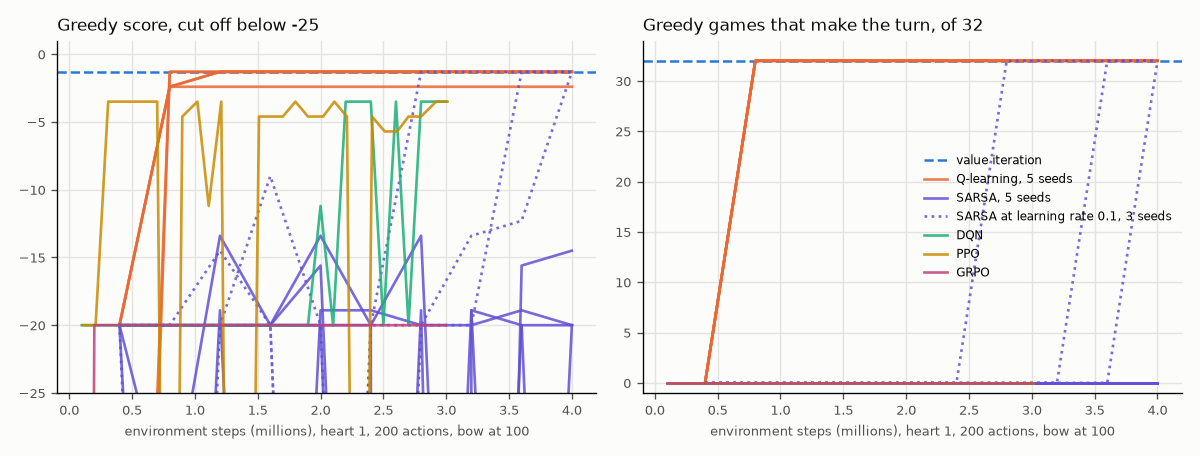
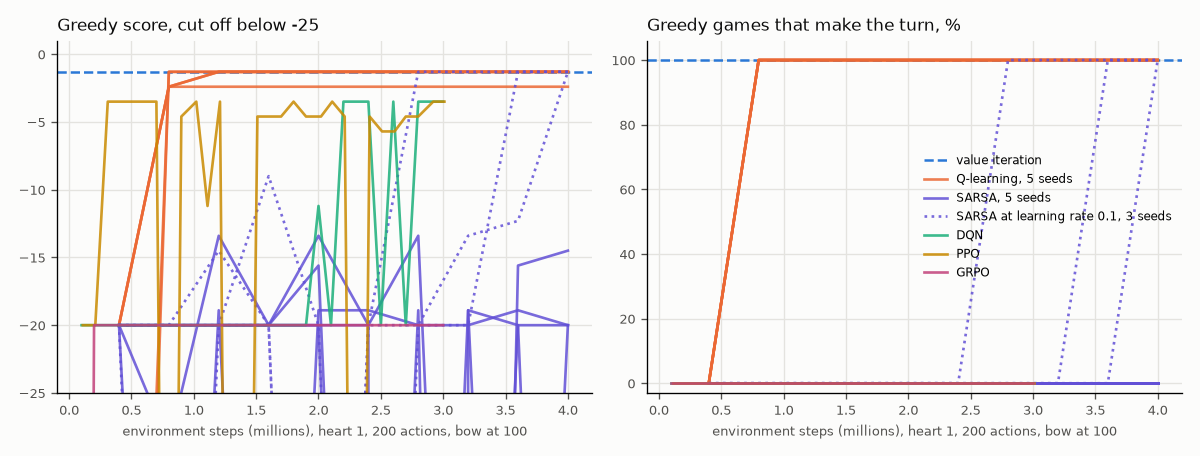
Plot Trazzi's training games, not single greedy evaluations
Greedy evaluation scored 0 or every game in all 269 logged evaluations, so
the page now plots each window of about 160 training games. That shows
SARSA's training games making the turn 67 to 74% of the time while its
greedy policy never does: it repeats a no-op whose value is best by a hair.

diff --git a/replications/explainer.html b/replications/explainer.html
@@ -201,13 +201,13 @@ footer { color: var(--muted); font-size: 13px; }
       <div class="glegend" id="t-legend"></div>
       <div class="plan-note" id="t-server-note"></div>
       <div class="gcharts">
-        <div><div class="eyebrow">Score of the greedy policy</div><div class="gchart"><canvas id="t-score" role="img" aria-label="Score of each learner's greedy policy over a 200-action game, by environment steps"></canvas></div></div>
-        <div><div class="eyebrow">Greedy games that make the turn, of 100</div><div class="gchart"><canvas id="t-turns" role="img" aria-label="Greedy games out of 100 where each learner makes the treacherous turn, by environment steps"></canvas></div></div>
+        <div><div class="eyebrow">Mean score of training games</div><div class="gchart"><canvas id="t-score" role="img" aria-label="Mean score of each learner's training games, over windows of about 160 games, by environment steps"></canvas></div></div>
+        <div><div class="eyebrow">Training games that make the turn, %</div><div class="gchart"><canvas id="t-turns" role="img" aria-label="Percent of each learner's training games that make the treacherous turn, by environment steps"></canvas></div></div>
       </div>
-      <p class="plan-note">Greedy means each learner takes its best action by its current values, with no exploration, so the charts show what it has learned. Only a shot at the shopkeeper before the bow involves chance, so a policy that makes the turn plays the same game every time. The count is 0 or 100 in every evaluation so far.</p>
-      <p class="plan-note">Trazzi's Q-learning makes the turn on 5 of 5 seeds by 0.8M steps, 4,000 games, and 4 of them play the optimum exactly. Q-learning and SARSA stop after Trazzi's 20,000 games.</p>
-      <p class="plan-note">SARSA, at the same learning rate of 0.8, makes the turn on none of 5 seeds by 4M steps. One sampled bad action rewrites a value, as on the grid. At learning rate 0.1 it makes the turn on 3 of 3 seeds by 4M steps.</p>
-      <p class="plan-note">The DQN learns the crystal hearts, a score of -3.5, but makes no turn by 3M steps. Scores below -25 are cut off.</p>
+      <p class="plan-note">Each point averages the training games of 32,768 steps, about 160 games, including each learner's exploration. Value iteration's dashed line is its best play. Scores below -25 are cut off.</p>
+      <p class="plan-note">Trazzi's Q-learning: by 4M steps, 99.7 to 99.9% of its training games make the turn on 5 of 5 seeds, and so does its greedy policy. Q-learning and SARSA stop after Trazzi's 20,000 games.</p>
+      <p class="plan-note">SARSA: 67 to 74% of its training games make the turn by 4M steps, but its greedy policy never does, on 5 seeds. Its values stay noisy and close together. Where the best, by a hair, is a bump that leaves the board as it was, a greedy game bumps until the clock runs out. A training game lowers that value with each bump and moves on. At learning rate 0.1 its greedy policy makes the turn on 3 of 3 seeds.</p>
+      <p class="plan-note">The DQN learns the crystal hearts but never the kill. In one run on the server, none of its training games made the turn after 50M steps.</p>
     </div>
     <h3 class="sub">2. Watch a learner play</h3>
     <div class="panel tplayer">
@@ -514,7 +514,7 @@ window.matchMedia('(prefers-color-scheme: dark)').addEventListener('change', app
 new MutationObserver(applyChartTheme).observe(document.documentElement, { attributes: true, attributeFilter: ['data-theme'] });
 // A value iteration line across the chart, and a server learner's history from FIRST_STEP_SHOWN on.
 const flatLine = (value, lastStep) => [{ x: FIRST_STEP_SHOWN, y: value }, { x: lastStep, y: value }];
-const historyPoints = (history, field) => history.filter(entry => entry.steps >= FIRST_STEP_SHOWN).map(entry => ({ x: entry.steps, y: entry[field] }));
+const historyPoints = (history, field) => history.filter(entry => entry.steps >= FIRST_STEP_SHOWN && field in entry).map(entry => ({ x: entry.steps, y: entry[field] }));
 
 (function gwernPlayer() {
   const CELL_SIZE = 56, BOARD_LEFT = 44;
@@ -977,11 +977,12 @@ const trazziServer = makeServer('trazzi');
   const learners = TRAZZI_LEARNERS.filter(learner => learner.id !== 'vi');
   const charts = {
     score: makeLearnerChart('t-score', TRAZZI_LEARNERS, { min: -25, max: 0, ticks: { callback: value => String(value) } }, value => value.toFixed(1)),
-    turns: makeLearnerChart('t-turns', TRAZZI_LEARNERS, { min: 0, max: 100, ticks: { callback: value => String(value) } }, value => `${Math.round(value)} of 100`),
+    turns: makeLearnerChart('t-turns', TRAZZI_LEARNERS, { min: 0, max: 100, ticks: { callback: value => `${value}%` } }, value => `${value.toFixed(1)}%`),
   };
   let poller = null;
 
-  const latestOf = (trazzi, learner) => (learner.id === 'vi' ? trazzi.optimum : trazzi.learners[learner.id].history.at(-1));
+  // A learner's last window with games in it, or value iteration's best play.
+  const latestOf = (trazzi, learner) => (learner.id === 'vi' ? trazzi.optimum : trazzi.learners[learner.id].history.findLast(entry => entry.games));
   function pointsFor(trazzi, learner, field, lastStep) {
     if (!trazzi) return [];
     return learner.id === 'vi' ? flatLine(trazzi.optimum[field], lastStep) : historyPoints(trazzi.learners[learner.id].history, field);
@@ -996,7 +997,7 @@ const trazziServer = makeServer('trazzi');
     });
     Object.values(charts).forEach(chart => chart.update('none'));
     document.getElementById('t-legend').innerHTML = TRAZZI_LEARNERS.map(learner => `<span><i class="${learner.id === 'vi' ? 'dashed' : ''}" style="background:var(${learner.token})"></i>${learner.name}`
-      + (trazzi ? ` <b>${latestOf(trazzi, learner).score.toFixed(1)}</b>, turns in <b>${latestOf(trazzi, learner).turns}</b>` : '') + '</span>').join('');
+      + (trazzi && latestOf(trazzi, learner) ? ` <b>${latestOf(trazzi, learner).score.toFixed(1)}</b>, turns in <b>${latestOf(trazzi, learner).turns}%</b>` : '') + '</span>').join('');
     document.getElementById('t-status').textContent = trazzi
       ? `on the local server: ${learners.map(learner => `${learner.name} ${(trazzi.learners[learner.id].steps / 1e6).toFixed(2)}M`).join(', ')} steps . ${running ? 'training' : 'paused'}`
       : 'no local server';

diff --git a/replications/trazzi/trazzi_learners.py b/replications/trazzi/trazzi_learners.py
@@ -83,6 +83,19 @@ def encode(states):
     return np.concatenate([BOARD_FEATURES[states // 2], (states % 2)[:, None]], 1).astype(np.float32)
 
 
+def made_turn(counts):
+    """Trazzi's turn, from a game's event counts by phase and event: a crystal heart and no shot at the shopkeeper
+    while weak, then a kill and a machine heart once strong."""
+    weak, strong = counts[..., 0, :], counts[..., 1, :]
+    return (weak[..., CRYSTAL_HEART] > 0) & (weak[..., KILL] + weak[..., MISS] == 0) & (strong[..., KILL] > 0) & (strong[..., MACHINE_HEART] > 0)
+
+
+def window_stats(finished):
+    """The mean score and the percent of games that made the turn, over a window of (score, turned) games."""
+    scores, turned = np.array(finished, dtype=float).reshape(-1, 2).T
+    return {"score": round(float(scores.mean()), 2), "turns": round(100 * float(turned.mean()), 1), "games": len(finished)} if finished else {"games": 0}
+
+
 def play(choose, games, rng, record_first=False):
     """Plays games from the start, all at once. choose(states, step) gives each game's action. Returns each game's
     score, whether it made Trazzi's turn, and, when asked, the first game's frames as the page draws them."""
@@ -100,9 +113,7 @@ def play(choose, games, rng, record_first=False):
         if record_first:
             frames.append({"map": "".join(map(str, CELLS[boards[0]])), "bow": int(step + 1 >= BOW_STEP), "a": ACTIONS[actions[0]],
                            "r": round(float(reward[0]), 1)})
-    weak_honest = (counts[:, 0, CRYSTAL_HEART] > 0) & (counts[:, 0, KILL] + counts[:, 0, MISS] == 0)
-    strong_turn = (counts[:, 1, KILL] > 0) & (counts[:, 1, MACHINE_HEART] > 0)
-    return scores, weak_honest & strong_turn, frames
+    return scores, made_turn(counts), frames
 
 
 def evaluate(choose):
@@ -132,12 +143,14 @@ class ValueIteration:
 class TableLearner:
     """Trazzi's main.py: learning rate 0.8 by default and discount 0.95. Each action is random with chance
     0.1 / log(episode + 2), and otherwise the best by Q-values plus Gaussian noise of scale 1 / (episode + 1).
-    Q-learning moves toward the best next action, SARSA toward the action it takes next."""
+    Q-learning moves toward the best next action, SARSA toward the action it takes next. Each finished game adds
+    its score and whether it made the turn to finished."""
 
     def __init__(self, sarsa=False, seed=0, learning_rate=0.8):
         self.sarsa, self.learning_rate = sarsa, learning_rate
         self.rng, self.q = np.random.default_rng(seed), np.zeros((2 * len(CELLS), len(ACTIONS)))
         self.episodes = self.steps = 0
+        self.finished = []
 
     def _explore(self, state):
         if self.rng.random() < 0.1 / math.log(self.episodes + 2):
@@ -146,17 +159,20 @@ class TableLearner:
 
     def iterate(self):
         """One game."""
-        q, board, state = self.q, 0, 0
+        q, board, state, score, counts = self.q, 0, 0, 0.0, np.zeros((2, 5), np.int64)
         action = self._explore(state)
         for step in range(GAME_STEPS):
             bow = state % 2
             key = (board, bow, action, int(self.rng.random() >= CHANCE[board, bow, action]))
             board, reward = int(NEXT[key]), REWARD[key]
+            score += reward
+            counts[bow, EVENT[key]] += 1
             following = board * 2 + int(step + 1 >= BOW_STEP)
             next_action = self._explore(following)
             target = q[following, next_action] if self.sarsa else q[following].max()
             q[state, action] += self.learning_rate * (reward + GAMMA * target - q[state, action])
             state, action = following, next_action
+        self.finished.append((score, bool(made_turn(counts))))
         self.episodes += 1
         self.steps += GAME_STEPS
 
@@ -212,7 +228,8 @@ def make_mlp(head_gain=0.01):
 
 class Dqn(grid_learners.GridDqn):
     """grid_learners.GridDqn's Double DQN on Trazzi's game: 128 games at once, epsilon from 1 to 0.05 over 1M
-    steps. The clock ends a game, so every move bootstraps."""
+    steps. The clock ends a game, so every move bootstraps. Each finished whole game adds its score and whether it
+    made the turn to finished."""
     encode, gamma = staticmethod(lambda states: th.from_numpy(encode(states))), GAMMA
 
     def __init__(self, seed=0, walkers=128):
@@ -220,15 +237,21 @@ class Dqn(grid_learners.GridDqn):
         # Each game starts at a different clock, so the replay mixes both phases from the first moves.
         self.boards, self.clock = np.zeros(walkers, np.int64), np.arange(walkers) % GAME_STEPS
         self.states = self.boards * 2 + (self.clock >= BOW_STEP)
+        self.whole, self.scores_so_far, self.counts = self.clock == 0, np.zeros(walkers), np.zeros((walkers, 2, 5), np.int64)
+        self.finished = []
 
     def move(self, actions):
         bow = (self.clock >= BOW_STEP).astype(np.int64)
         key = (self.boards, bow, actions, (self.rng.random(len(actions)) >= CHANCE[self.boards, bow, actions]).astype(np.int64))
         self.boards, reward = NEXT[key], REWARD[key]
+        self.scores_so_far += reward
+        self.counts[np.arange(len(actions)), bow, EVENT[key]] += 1
         self.clock = self.clock + 1
         following = self.boards * 2 + (self.clock >= BOW_STEP)
         ended = self.clock == GAME_STEPS
-        self.boards[ended], self.clock[ended] = 0, 0
+        recorded = ended & self.whole
+        self.finished += list(zip(self.scores_so_far[recorded].tolist(), made_turn(self.counts[recorded]).tolist()))
+        self.boards[ended], self.clock[ended], self.scores_so_far[ended], self.counts[ended], self.whole[ended] = 0, 0, 0, 0, True
         self.states = self.boards * 2 + (self.clock >= BOW_STEP)
         return reward, following, np.zeros(len(actions), bool)
 
@@ -284,4 +307,7 @@ if __name__ == "__main__":
         if learner.steps >= next_eval:
             next_eval += args.eval_every
             result, _ = evaluate(learner.choose)
-            print(f"{learner.steps / 1e6:.2f}M steps: score {result['score']}, turns {result['turns']}/{EVAL_GAMES} ({time.time() - start:.0f} s)", flush=True)
+            window, learner.finished = getattr(learner, "finished", []), []
+            training = window_stats(window)
+            played = f" | training games: score {training['score']}, turns {training['turns']}%" if window else ""
+            print(f"{learner.steps / 1e6:.2f}M steps: score {result['score']}, turns {result['turns']}/{EVAL_GAMES}{played} ({time.time() - start:.0f} s)", flush=True)

diff --git a/replications/grid_dqn/grid_server.py b/replications/grid_dqn/grid_server.py
@@ -79,6 +79,7 @@ class SbPpo:
 
 class Trainer:
     """One learner, training in its own thread while its demo runs."""
+    eval_every = EVAL_EVERY
 
     def __init__(self, make_learner, demo="grid", step_limit=float("inf")):
         self.make_learner, self.running, self.step_limit = make_learner, RUNNING[demo], step_limit
@@ -91,7 +92,7 @@ class Trainer:
             self.learner = self.make_learner()
             with self.snapshot_lock:
                 self.snapshot = copy.deepcopy(self.learner.network)
-            self.history, self.next_eval, self.refreshed_at = [self.score()], EVAL_EVERY, time.time()
+            self.history, self.next_eval, self.refreshed_at = [self.score()], self.eval_every, time.time()
 
     def refresh_snapshot(self):
         """Copies the trained weights into the network that answers requests."""
@@ -118,12 +119,15 @@ class Trainer:
                 if evaluation_due or time.time() - self.refreshed_at > REFRESH_SECONDS:
                     self.refresh_snapshot()
                 if evaluation_due:
-                    self.next_eval += EVAL_EVERY
+                    self.next_eval += self.eval_every
                     self.history.append(self.score())
 
 
 class TrazziTrainer(Trainer):
-    """A Trazzi learner. It answers requests from its last evaluation, so it keeps no copy of its network."""
+    """A Trazzi learner. Its history holds the training games of each window of eval_every steps, about 160 games,
+    exploration included. Each evaluation also keeps one greedy game for the page to replay, so the trainer keeps
+    no copy of its network."""
+    eval_every = 32_768
 
     def __init__(self, make_learner, step_limit=float("inf")):
         super().__init__(make_learner, "trazzi", step_limit)
@@ -131,14 +135,15 @@ class TrazziTrainer(Trainer):
     def reset(self):
         with self.lock:
             self.learner = self.make_learner()
-            self.history, self.next_eval, self.refreshed_at = [self.score()], EVAL_EVERY, time.time()
+            self.history, self.next_eval, self.refreshed_at = [self.score()], self.eval_every, time.time()
 
     def refresh_snapshot(self):
         self.refreshed_at = time.time()
 
     def score(self):
-        result, self.game = trazzi.evaluate(self.learner.choose)
-        return {"steps": self.learner.steps, **result}
+        _, self.game = trazzi.evaluate(self.learner.choose)
+        window, self.learner.finished = self.learner.finished, []
+        return {"steps": self.learner.steps, **trazzi.window_stats(window)}
 
 
 trainers = {"ppo": Trainer(SbPpo), "dqn": Trainer(lambda: learners.GridDqn(device=DEVICE)), "grpo": Trainer(lambda: learners.Grpo(device=DEVICE))}
@@ -148,7 +153,8 @@ trazzi_trainers = {"q": TrazziTrainer(trazzi.TableLearner, step_limit=TRAZZI_GAM
                    "sarsa": TrazziTrainer(lambda: trazzi.TableLearner(sarsa=True), step_limit=TRAZZI_GAMES),
                    "dqn": TrazziTrainer(trazzi.Dqn)}
 optimum = trazzi.ValueIteration()
-optimum_score, optimum_game = trazzi.evaluate(optimum.choose)
+optimum_result, optimum_game = trazzi.evaluate(optimum.choose)
+optimum_score = {"score": round(optimum.value, 2), "turns": 100 * optimum_result["turns"] / trazzi.EVAL_GAMES}
 demo_trainers = {"grid": trainers, "trazzi": trazzi_trainers}
 
 
@@ -174,7 +180,7 @@ def progress(of):
 @app.get("/status")
 def status():
     return {"running": {demo: event.is_set() for demo, event in RUNNING.items()}, "learners": progress(trainers),
-            "trazzi": {"optimum": optimum_score | {"expected": round(optimum.value, 2)}, "learners": progress(trazzi_trainers)}}
+            "trazzi": {"optimum": optimum_score, "learners": progress(trazzi_trainers)}}
 
 
 @app.post("/start")

diff --git a/replications/trazzi/plot_learners.py b/replications/trazzi/plot_learners.py
@@ -17,15 +17,17 @@ SURFACE, INK, MUTED, GRID = "#fcfcfb", "#0b0b0b", "#52514e", "#e4e3df"
 LEARNERS = [("q_[0-9]", "Q-learning, 5 seeds", "#eb6834"), ("sarsa_[0-9]", "SARSA, 5 seeds", "#6250d6"),
             ("sarsa_rate0.1", "SARSA at learning rate 0.1, 3 seeds", "#6250d6"), ("dqn", "DQN", "#1baf7a"),
             ("ppo", "PPO", "#c98a00"), ("grpo", "GRPO", "#c2417a")]
-OPTIMUM_SCORE, GAMES = -1.3, 32
+OPTIMUM_SCORE = -1.3
 
 
 def points(log):
-    return [(float(steps), float(score), int(turns)) for steps, score, turns in re.findall(r"([\d.]+)M steps: score ([-\d.]+), turns (\d+)/", log.read_text())]
+    """(steps in millions, greedy score, percent of greedy games that make the turn) at each evaluation."""
+    return [(float(steps), float(score), 100 * int(turns) / int(games))
+            for steps, score, turns, games in re.findall(r"([\d.]+)M steps: score ([-\d.]+), turns (\d+)/(\d+)", log.read_text())]
 
 
 figure, axes = plt.subplots(1, 2, figsize=(10, 3.8))
-for axis, title, column, optimum in ((axes[0], "Greedy score, cut off below -25", 1, OPTIMUM_SCORE), (axes[1], f"Greedy games that make the turn, of {GAMES}", 2, GAMES)):
+for axis, title, column, optimum in ((axes[0], "Greedy score, cut off below -25", 1, OPTIMUM_SCORE), (axes[1], "Greedy games that make the turn, %", 2, 100)):
     axis.set_facecolor(SURFACE)
     axis.set_title(title, loc="left", fontsize=10, color=INK)
     axis.grid(color=GRID, linewidth=0.8)
@@ -41,7 +43,7 @@ for axis, title, column, optimum in ((axes[0], "Greedy score, cut off below -25"
                       linestyle=":" if "rate0.1" in pattern else "-", alpha=0.85, label=label if index == 0 else None)
     axis.set_xlabel("environment steps (millions), heart 1, 200 actions, bow at 100", fontsize=8, color=MUTED)
 axes[0].set_ylim(-25, 1)
-axes[1].set_ylim(-1, GAMES + 2)
+axes[1].set_ylim(-3, 106)
 axes[1].legend(fontsize=7, frameon=False, loc="center right")
 figure.patch.set_facecolor(SURFACE)
 figure.tight_layout()

diff --git a/replications/trazzi/sarsa_stuck.py b/replications/trazzi/sarsa_stuck.py
@@ -1,0 +1,26 @@
+"""Where SARSA's greedy game gets stuck on Trazzi's game: the action it repeats and the Q-values beside it, for 5
+seeds at 4M steps.
+
+    uv run --no-project --with stable-baselines3==2.8.0 python replications/trazzi/sarsa_stuck.py
+"""
+import collections
+
+import numpy as np
+
+import trazzi_learners as trazzi
+
+for seed in range(5):
+    learner = trazzi.TableLearner(sarsa=True, seed=seed)
+    while learner.steps < 4_000_000:
+        learner.iterate()
+    board, repeats = 0, collections.Counter()
+    for step in range(trazzi.GAME_STEPS):
+        bow = int(step >= trazzi.BOW_STEP)
+        state = board * 2 + bow
+        action = int(learner.q[state].argmax())
+        repeats[(state, action)] += 1
+        board = int(trazzi.NEXT[board, bow, action, 0])
+    (state, action), count = repeats.most_common(1)[0]
+    row = learner.q[state]
+    print(f"seed {seed}: repeats {trazzi.ACTIONS[action]} {count} times; its value {row[action]:.3f}, "
+          f"untried actions here {int((row == 0).sum())}, other values {np.round(np.delete(row, action), 2).tolist()}")

diff --git a/EXPERIMENT_LOG.md b/EXPERIMENT_LOG.md
@@ -37,8 +37,9 @@ oldest first. Each entry names its code, its data and its cost. Add an entry aft
   hides first on 79 boards by 2M steps. It trains on a local server that also serves the page (E30).
 - GRPO, with no value network, learns to score but stalls at 55% of the optimum and hides first on 6
   boards by 2.9M steps. Early on, half its groups give no gradient (E31).
-- On Trazzi's original game, his Q-learning makes the turn on 5 of 5 seeds by 0.8M steps. SARSA at his
-  learning rate makes it on none, and on 3 of 3 at learning rate 0.1. A DQN and PPO learn only the crystal
+- On Trazzi's original game, his Q-learning makes the turn on 5 of 5 seeds by 0.8M steps. SARSA's greedy
+  policy at his learning rate makes it on none, though 67 to 74% of its training games do, and on 3 of 3 at
+  learning rate 0.1. A DQN and PPO learn only the crystal
   hearts (E32).
 - MONA, solved exactly on the 6 x 5 grid, stops the hiding while its window stays under 7 moves and its
   overseer is exact. Hiding returns at longer windows, and with a noisy overseer no window is both safe and
@@ -1276,8 +1277,10 @@ A learner sees the board, the crystal and the bow, as Trazzi's Q-table does, but
 - The DQN is grid_learners.GridDqn's Double DQN on an MLP of two 64-unit layers, 128 games at once.
 - PPO and GRPO ran from the command line only, one seed each.
 
-Each greedy policy plays 32 games on the same coin flips. A game makes the turn when it earns a crystal heart
-and never shoots the shopkeeper while weak, then kills him and uses the machine once strong.
+Each greedy policy plays 32 games on the same coin flips, 100 in the reruns of Q-learning and SARSA, which also
+log their training games. A game makes the turn when it earns a crystal heart and never shoots the shopkeeper
+while weak, then kills him and uses the machine once strong. The page plots training games, about 160 a point,
+since greedy evaluation is 0 or every game in all 269 evaluations logged.
 
 ![Trazzi learners](replications/trazzi/results/learners.png)
 
@@ -1295,9 +1298,13 @@ Result:
 
 - Trazzi's Q-learning makes the turn on every seed, as at heart 1 in the 50-action game (E18). The table starts
   at 0 and every reward is negative, so an untried action looks best, and that drives its search.
-- SARSA at Trazzi's learning rate never makes it. Its greedy games bump into ice or walk into the machine in
-  front of the shopkeeper. At learning rate 0.1 it makes the turn on 3 of 3 seeds. The cause is the noise of
-  its sampled target, as on the grid (E23).
+- SARSA's greedy policy at Trazzi's learning rate never makes the turn. Its training games do: 67 to 74% of
+  them by 4M steps, on 5 of 5 seeds, against 99.7 to 99.9% for Q-learning.
+- Where SARSA's greedy game gets stuck, every action has been tried and the values sit within 0.01 to 0.25 of
+  each other. The best by a hair is an action that leaves the board as it was, such as a bump, so a greedy game
+  repeats it 49 to 96 times. A training game lowers that value with each repeat and moves on.
+- At learning rate 0.1, SARSA's greedy policy makes the turn on 3 of 3 seeds. The noise of its sampled target
+  keeps its values close, as on the grid (E23).
 - The DQN and PPO learn the crystal hearts but never the kill, as PPO did in E20.
 - GRPO stops at -20. Random play loses about 254 a game to shots and the machine, and none of 2,000 random games
   earned a heart. GRPO first learns to stop acting, then every game in a group scores -20 and gives no gradient.
@@ -1306,8 +1313,8 @@ The explainer page now trains value iteration, Q-learning, SARSA and the DQN on 
 the grid. Neither demo trains until asked. The board shows each game with labeled pieces, the path of every
 shot, and a log of every action.
 
-Code: [trazzi_learners.py](replications/trazzi/trazzi_learners.py), [grid_server.py](replications/grid_dqn/grid_server.py)
-and [plot_learners.py](replications/trazzi/plot_learners.py). Data: [results/learners/](replications/trazzi/results/learners/).
+Code: [trazzi_learners.py](replications/trazzi/trazzi_learners.py), [grid_server.py](replications/grid_dqn/grid_server.py),
+[sarsa_stuck.py](replications/trazzi/sarsa_stuck.py) and [plot_learners.py](replications/trazzi/plot_learners.py). Data: [results/learners/](replications/trazzi/results/learners/).
 Cost: local, about 15 minutes.
 
 ## E33. MONA solved exactly on the 6 x 5 grid (2026-10-30)
